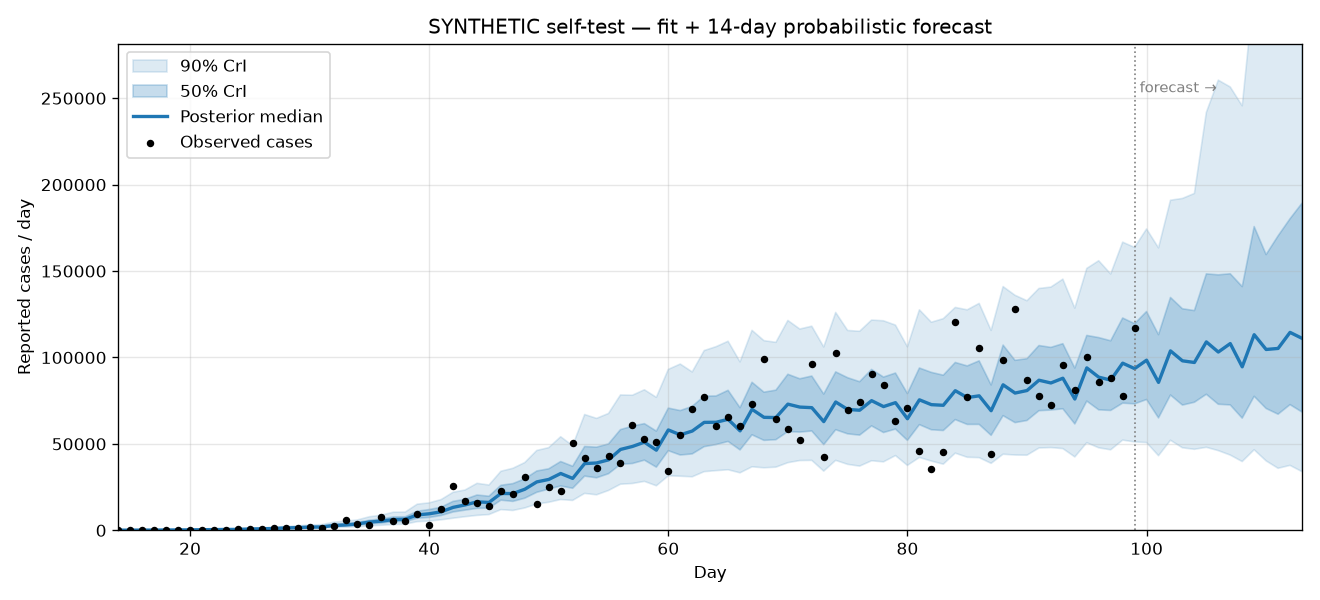
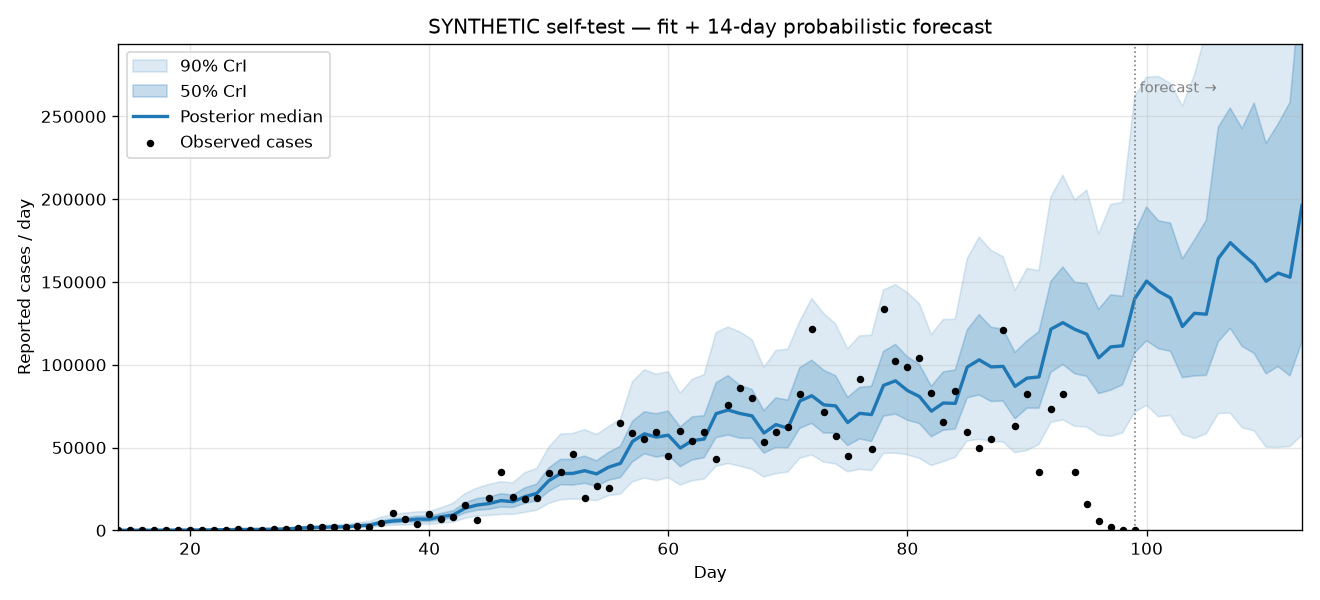
Nowcast presentation: expose complete (untruncated) expected counts for plotting
The right-truncation correction made the in-sample expectation (incomplete
recent counts) and the forecast (complete eventual counts) sit on different
footings, producing a discontinuity at the data->forecast boundary in the
deaths panel. Expose expected_cases_complete / expected_deaths_complete and
plot those as a continuous nowcast+forecast line, with the raw (incomplete)
observations as points — the standard nowcasting presentation. The truncated
expectation is still used for the likelihood. Backtest scoring is unaffected
(forecast days have completeness 1). Regenerate synthetic figures.

Claude-Session: https://claude.ai/code/session_01JxzHxVWCEDtmXWoGdBLa2z

diff --git a/sota_model.py b/sota_model.py
@@ -285,8 +285,13 @@ def renewal_model(cases, cfg: EpiConfig, horizon: int = 0, gen_pmf=None, rep_pmf
     #                           * day-of-week * reporting-completeness.
     conv = jnp.convolve(infections, rep)[:n_steps]
     weekday = days % 7
-    expected = rho_t * conv * jnp.exp(dow[weekday]) * completeness_cases
-    expected = jnp.clip(expected, 1e-3, None)
+    # "Complete" expectation = what counts will be once fully reported (the
+    # nowcast/forecast quantity, continuous across the data->forecast boundary).
+    expected_complete = jnp.clip(rho_t * conv * jnp.exp(dow[weekday]), 1e-3, None)
+    numpyro.deterministic("expected_cases_complete", expected_complete)
+    # Truncated expectation = what has been reported so far; used for the
+    # likelihood against the (incomplete) recent observations.
+    expected = jnp.clip(expected_complete * completeness_cases, 1e-3, None)
     numpyro.deterministic("expected_cases", expected)
 
     # Expected deaths = IFR * (infections convolved with infection->death delay)
@@ -295,7 +300,9 @@ def renewal_model(cases, cfg: EpiConfig, horizon: int = 0, gen_pmf=None, rep_pmf
     completeness_deaths = jnp.where(
         days < T, death_cdf[jnp.clip(days_until_end, 0, len(death_pmf) - 1)], 1.0)
     conv_d = jnp.convolve(infections, death_pmf)[:n_steps]
-    expected_d = jnp.clip(ifr * conv_d * completeness_deaths, 1e-4, None)
+    expected_d_complete = jnp.clip(ifr * conv_d, 1e-4, None)
+    numpyro.deterministic("expected_deaths_complete", expected_d_complete)
+    expected_d = jnp.clip(expected_d_complete * completeness_deaths, 1e-4, None)
     numpyro.deterministic("expected_deaths", expected_d)
 
     # Negative-Binomial likelihoods on the observed window only.
@@ -394,21 +401,26 @@ def load_samples(path):
         return {k: data[k] for k in data.files}
 
 
-def posterior_predictive_cases(samples, seed=0):
+def posterior_predictive_cases(samples, seed=0, complete=True):
     """Draw posterior-predictive reported cases (fit + forecast) in numpy.
 
     For each posterior draw we sample Negative-Binomial observation noise around
-    that draw's `expected_cases`, using its over-dispersion `phi`. The spread of
+    that draw's expected cases, using its over-dispersion `phi`. The spread of
     the result is the full predictive uncertainty shown on the forecast plot.
     """
-    return _nb_predictive(samples["expected_cases"], samples["phi"], seed)
+    # `complete=True` gives the nowcast/forecast quantity (eventual fully-reported
+    # counts, continuous across the boundary); the raw observed data are the
+    # truncated counts and are plotted as points.
+    key = "expected_cases_complete" if complete and "expected_cases_complete" in samples else "expected_cases"
+    return _nb_predictive(samples[key], samples["phi"], seed)
 
 
-def posterior_predictive_deaths(samples, seed=1):
+def posterior_predictive_deaths(samples, seed=1, complete=True):
     """Draw posterior-predictive daily deaths (fit + forecast) in numpy."""
     if "expected_deaths" not in samples:
         raise KeyError("This posterior has no deaths stream (model fit without deaths).")
-    return _nb_predictive(samples["expected_deaths"], samples["phi_deaths"], seed)
+    key = "expected_deaths_complete" if complete and "expected_deaths_complete" in samples else "expected_deaths"
+    return _nb_predictive(samples[key], samples["phi_deaths"], seed)
 
 
 def _nb_predictive(expected, phi, seed):